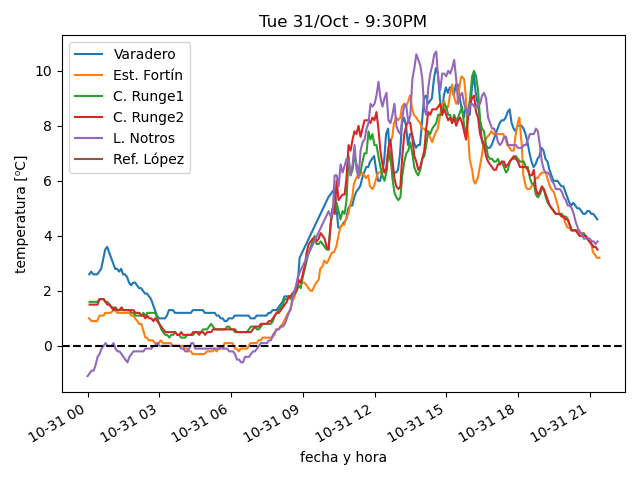
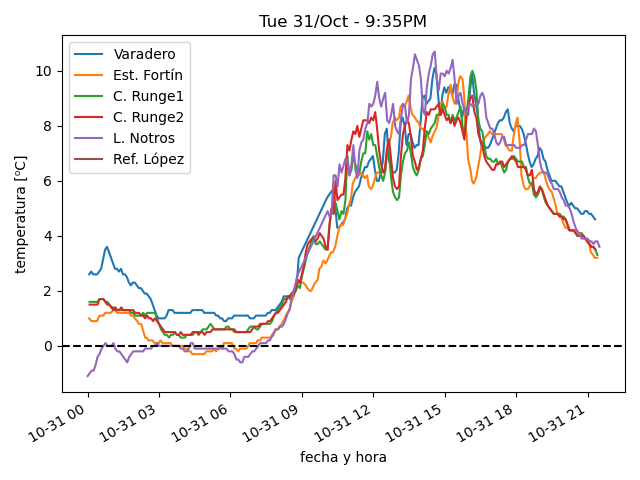
actualiza datos

diff --git a/estaciones/estacion3.html b/estaciones/estacion3.html
@@ -18,12 +18,12 @@
     </tr>
     <tr>
      <td class="stats_data">
-      9:09PM
+      9:24PM
      </td>
     </tr>
     <tr>
      <td class="stats_data">
-      3.6⁰C
+      3.3⁰C
      </td>
     </tr>
     <tr>
@@ -33,22 +33,22 @@
     </tr>
     <tr>
      <td class="stats_data">
-      90.9%
+      93.6%
      </td>
     </tr>
     <tr>
      <td class="stats_data">
-      1012.33hPa
+      1012.53hPa
      </td>
     </tr>
     <tr>
      <td class="stats_data">
-      6.9/9.8 km/hr ESE
+      9.3/13.1 km/hr ESE
      </td>
     </tr>
     <tr>
      <td class="stats_data">
-      1.19 / 3.0 mm
+      2.01 / 4.8 mm
      </td>
     </tr>
     <tr>

diff --git a/estaciones/estacion5.html b/estaciones/estacion5.html
@@ -18,17 +18,17 @@
     </tr>
     <tr>
      <td class="stats_data">
-      9:20PM
+      9:30PM
      </td>
     </tr>
     <tr>
      <td class="stats_data">
-      3.8⁰C
+      3.6⁰C
      </td>
     </tr>
     <tr>
      <td class="stats_data">
-      2.1⁰C
+      1.9⁰C
      </td>
     </tr>
     <tr>
@@ -38,7 +38,7 @@
     </tr>
     <tr>
      <td class="stats_data">
-      1025.64hPa
+      1025.87hPa
      </td>
     </tr>
     <tr>
@@ -48,7 +48,7 @@
     </tr>
     <tr>
      <td class="stats_data">
-      1.52 / 1.27 mm
+      2.03 / 1.52 mm
      </td>
     </tr>
     <tr>
